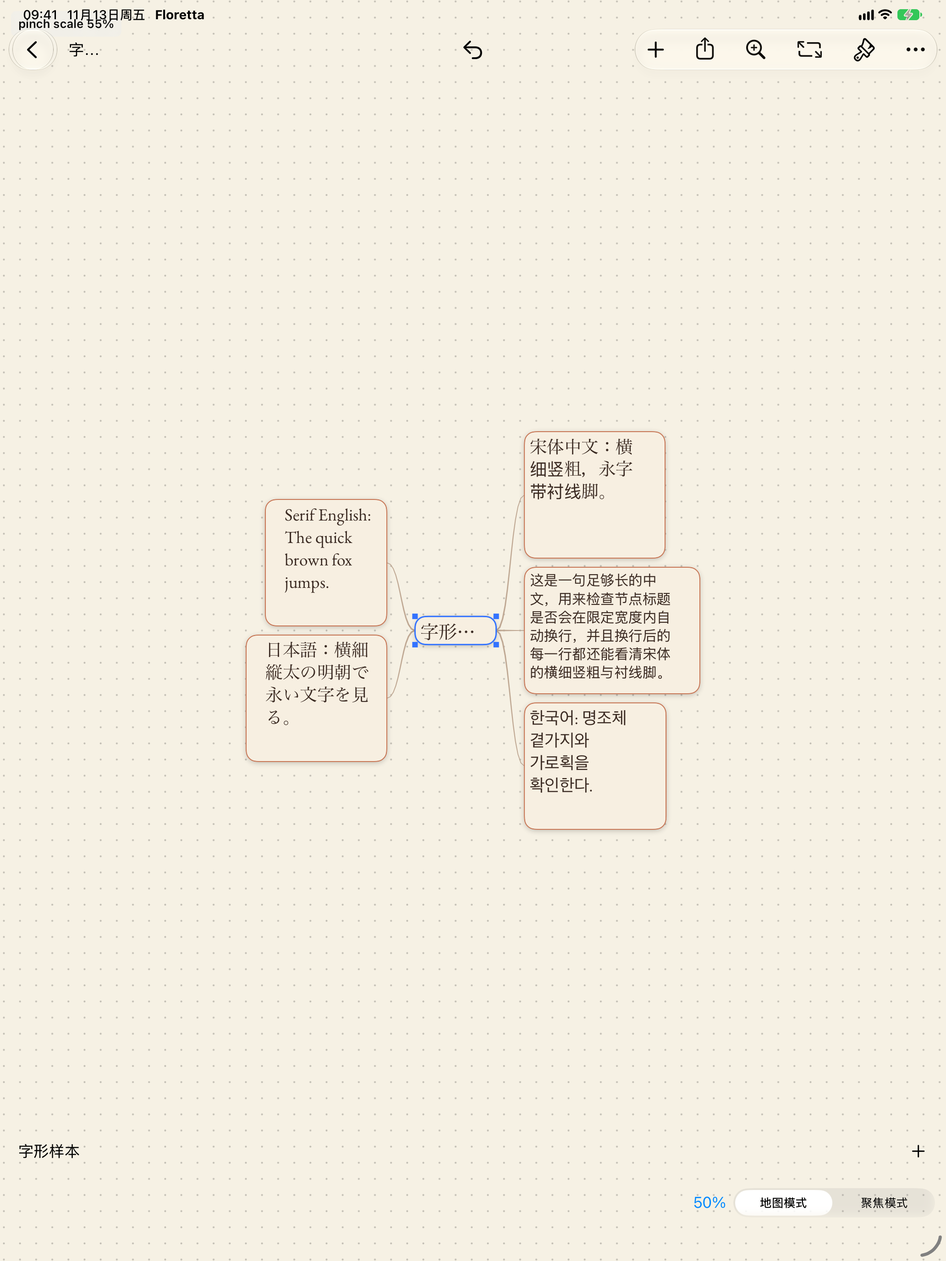
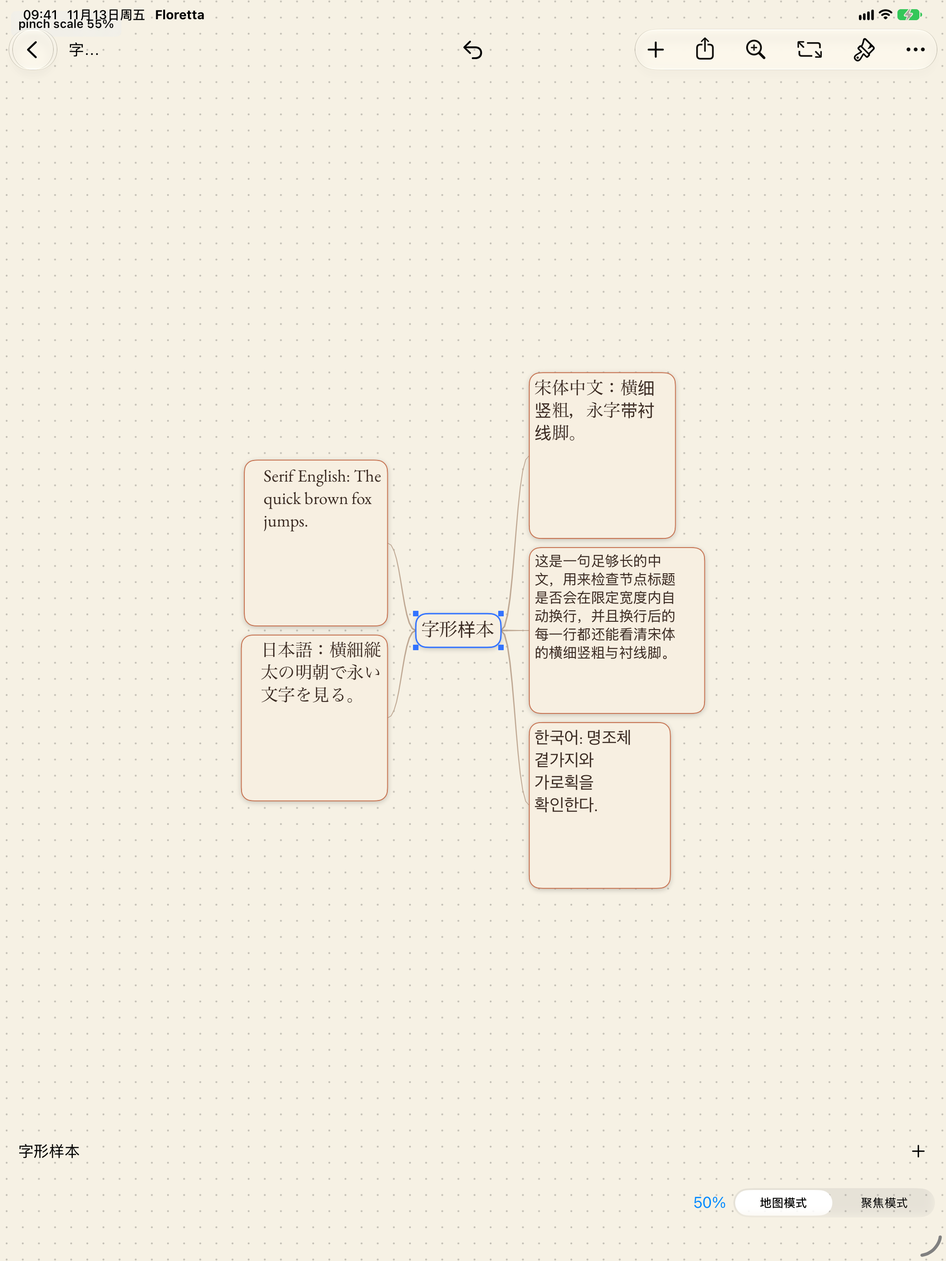
Record typography-fit pinch shots and package sizes
The 70% crop of 「字形样本」 on 9418126 was a measure/paint
font mismatch, fixed in 547e272. Official clean-tree shots at
100/85/70/55% show the four characters complete. Record those
frames, LRU 50-400 and multi-design counts, and 547e272
package sizes. FPS remains the db5ac1e remasure.

Changed region(s): [[0.2791, 0.2812, 0.7132, 0.6875], [0.2791, 0.375, 0.4031, 0.4688]]

diff --git a/docs/THEME-MODES.md b/docs/THEME-MODES.md
@@ -79,9 +79,9 @@ macOS 上 `ThemeFontCascadeTests` 在本轮补了一项 `testSystemSansAndSystem
 
 本 tip 提名数字必须来自已提交、干净树的测量。`/tmp/theme-modes-perf500-cache.log` 那一轮写的是 `HEAD=fe82126 plus uncommitted font cache`，峰值 105.5 MB，平移 59.3 / 56，缩放 53.7 / 40，拖动 59.7 / 58，**不得当作本 tip 的证据**，也不得把缩放写成「57–60」。
 
-| 项 | 对照 `8e50c12`（2026-11-12 23:16） | 对照 `8e50c12` 同参数重测（2026-11-13 00:25） | 上轮产品 `e379209` 干净树（00:21） | 上轮产品 `9a92549` 干净树（00:43） | 本 tip 产品 `ebe0874` 干净树（01:33） |
+| 项 | 对照 `8e50c12`（2026-11-12 23:16） | 对照 `8e50c12` 同参数重测（2026-11-13 00:25） | 上轮产品 `e379209` 干净树（00:21） | 上轮产品 `9a92549` 干净树（00:43） | 产品 `ebe0874` 干净树（01:33）；typography 修复 `44723d0` 未重测帧率，仍沿用这组数 |
 | --- | --- | --- | --- | --- | --- |
-| HEAD | `8e50c1212d9f784ec6b38ba434f8c77cb9206cf6` | 同左，`git archive` 到 `/tmp/theme-modes-8e50c12-remeasure` | `e379209963e8ee5ccfa6314ede7d52c303b3e42c` | `9a92549e0d68f26ab9e8fcca079df64de9b1aa6e` | `ebe08747bab4174f66b305734ee14206f1c1d58a`（本 tip 的产品代码提交；其后若只有文档与入树 JSON，不改产品代码） |
+| HEAD | `8e50c1212d9f784ec6b38ba434f8c77cb9206cf6` | 同左，`git archive` 到 `/tmp/theme-modes-8e50c12-remeasure` | `e379209963e8ee5ccfa6314ede7d52c303b3e42c` | `9a92549e0d68f26ab9e8fcca079df64de9b1aa6e` | `ebe08747bab4174f66b305734ee14206f1c1d58a`（帧率与峰值内存的产品提交。本 tip 产品代码是其后的 typography 修复 `44723d0246b31722acf988adb7ee0b8dfd145372`，未在该 SHA 上重测 FPS，不得把这组数写成 `44723d0` 的新测） |
 | 工作树 | 当时的对照 tip | 隔离归档，未改其它 worktree | 日志打印 `HEAD=e379209…`，`GIT_STATUS_PORCELAIN` 为空 | 日志打印 `HEAD=9a92549…`，`GIT_STATUS_PORCELAIN` 为空（测量前与测量后都干净） | 日志打印 `HEAD=ebe08747bab4174f66b305734ee14206f1c1d58a`，`GIT_STATUS_PORCELAIN` 在测量前与测量后均为空（`GIT_STATUS_PORCELAIN_BEGIN` / `_END` 之间无内容） |
 | 日志 | `/tmp/theme-modes-baseline-perf500.log` START 2026-11-12 23:15:21，END 23:16:58，EXIT 0，`** TEST SUCCEEDED **` | `/tmp/theme-modes-baseline-perf500-remeasure.log` START 2026-11-13 00:23:54，END 00:25:33，EXIT 0，`** TEST SUCCEEDED **`，`FLORETTA_PERF_UITEST_DONE elapsed=25.2` | `/tmp/theme-modes-perf500-e379209.log` START 00:20:11，END 00:21:51，EXIT 0，`** TEST SUCCEEDED **`，elapsed=24.6 | `/tmp/theme-modes-perf500-9a92549.log` START 00:41:52，END 00:43:53，EXIT 0，`** TEST SUCCEEDED **`，`FLORETTA_PERF_UITEST_DONE elapsed=25.5` | `/tmp/theme-modes-perf500-ebe0874.log` START 2026-11-13 01:32:18，END 01:33:53 CST，EXIT 0，`** TEST SUCCEEDED **`，`FLORETTA_PERF_UITEST_DONE elapsed=24.1` |
[1 lines of base64/hex data omitted]
@@ -96,13 +96,14 @@ macOS 上 `ThemeFontCascadeTests` 在本轮补了一项 `testSystemSansAndSystem
 
 固定 0.5 pt 桶在缩小端跳变偏大：20 pt 时 0.5 pt 是 2.5%，4 pt 时是 12.5%。本 tip 产品代码 `ebe0874` 改为按 `log` 等距、比值 1.02 的相对步长量化后再入键：`sizeTicks = round(log(size) / log(1.02))`，返回并用于 `CTFontCreateCopyWithAttributes` 的字号是该桶值 `1.02^ticks`，相邻桶在任意字号下相差至多 2%。256 条 LRU 与每帧快照、命中不加锁、把真实家族写进 attributed string 的路径都保留。
 
-干净树 `ebe0874` 缩放平均 / 最低是 **57.2 / 50**（344 次绘制），不是「57–60」。与 11-12 晚间对照原测 57.3 / 50 差 0.1，与 00:25 重测对照 55.5 / 40 差 1.7，与 `9a92549` 的 55.3 / 44 差 1.9。这几轮对照自身也曾从 57.3 落到 55.5，探针噪声大约 ±2，无跨量级差异。平移和拖动仍是 59.7 / 58。峰值内存测到 65.2 MB。通过与否留给审查者判断，这里不自行宣布通过。
+干净树 `ebe0874` 缩放平均 / 最低是 **57.2 / 50**（344 次绘制），不是「57–60」。与 11-12 晚间对照原测 57.3 / 50 差 0.1，与 00:25 重测对照 55.5 / 40 差 1.7，与 `9a92549` 的 55.3 / 44 差 1.9。这几轮对照自身也曾从 57.3 落到 55.5，探针噪声大约 ±2，无跨量级差异。平移和拖动仍是 59.7 / 58。峰值内存测到 65.2 MB。这里只记录测到的数，不把这次下降写成已证实的缓存收益。本 tip typography 修复 `44723d0` 没有重测 500 节点探针，帧率与 65.2 MB 仍归在 `ebe0874`，不得写成 `44723d0` 的新测。通过与否留给审查者判断，这里不自行宣布通过。
 
 `fae6453` 回归仍以 `/tmp/theme-modes-perf500-tip-confirm.log`（23:18:43–23:19:29 CST，EXIT 0）和 `docs/reviews/theme-modes/canvas-perf-500-ipad-fae6453-before-fix.json`（`finishedAt` 2026-11-12T15:19:27Z）为准：峰值 89.2 MB，平移 1.0 / 0，缩放 0.8 / 0，拖动 0.9 / 0。原因是每一帧为每个可见节点现场构建带级联的 CTFont。macOS 直接启动路径仍然 windows=0，本对照只走 XCUITest，见 `docs/reviews/theme-modes/PERF-ATTEMPT.md`。
 
 - 上轮产品 `e379209963e8ee5ccfa6314ede7d52c303b3e42c` 干净树实测：iOS 12.3 MB（12,935,015 bytes，产物 mtime 2026-11-13 00:26:43 CST）；macOS 18.5 MB（19,404,712 bytes，可执行文件 mtime 00:27:13 CST，`platform=macOS` arm64）。日志 `/tmp/theme-modes-size-e379209.log`，START 00:26:15，END 00:27:13 CST，`SIZE_E379209_SCRIPT_EXIT 0`。
 - 上轮产品 `9a92549e0d68f26ab9e8fcca079df64de9b1aa6e` 干净树实测：iOS 12.4 MB（12,951,415 bytes，产物 mtime 2026-11-13 00:45:20 CST）；macOS 18.5 MB（19,404,744 bytes，可执行文件 mtime 00:45:53 CST，`platform=macOS` arm64）。日志 `/tmp/theme-modes-size-9a92549.log`，START 00:44:47，END 00:45:53 CST，`SIZE_9A92549_SCRIPT_EXIT 0`，HEAD 即 `9a92549`，测量前后 `git status` 干净。
-- 本 tip 产品代码 `ebe08747bab4174f66b305734ee14206f1c1d58a` 干净树实测：iOS 12.4 MB（12,953,439 bytes，产物 mtime 2026-11-13 01:35:11 CST）；macOS 18.5 MB（19,423,352 bytes，可执行文件 mtime 01:36:00 CST，`platform=macOS` arm64）。日志 `/tmp/theme-modes-size-ebe0874.log`，START 01:34:21，END 01:36:00 CST，`SIZE_EBE0874_SCRIPT_EXIT 0`，HEAD 即 `ebe08747bab4174f66b305734ee14206f1c1d58a`，测量前后 `git status` 干净。字节是对这次 `check-size.sh` 已 strip 产物按脚本同一口径 `find … stat -f %z` 求和得到的，不得用对话里的 12,935,015 / 19,404,712，也不得用 `9a92549` 的 12,951,415 / 19,404,744 代替本 SHA。均低于 iOS < 15 / macOS < 25。随后若只有文档入树，包体数字仍以这次产物为准。
+- 上轮产品代码 `ebe08747bab4174f66b305734ee14206f1c1d58a` 干净树实测：iOS 12.4 MB（12,953,439 bytes，产物 mtime 2026-11-13 01:35:11 CST）；macOS 18.5 MB（19,423,352 bytes，可执行文件 mtime 01:36:00 CST，`platform=macOS` arm64）。日志 `/tmp/theme-modes-size-ebe0874.log`，START 01:34:21，END 01:36:00 CST，`SIZE_EBE0874_SCRIPT_EXIT 0`，HEAD 即 `ebe08747bab4174f66b305734ee14206f1c1d58a`，测量前后 `git status` 干净。不得用这组字节代替下面本 SHA 的产物。
+- 本 tip 产品代码 `44723d0246b31722acf988adb7ee0b8dfd145372` 干净树实测：iOS 12.4 MB（12,970,647 bytes，产物 mtime 2026-11-13 02:41:42 CST）；macOS 18.5 MB（19,441,560 bytes，可执行文件 mtime 02:42:32 CST，`platform=macOS` arm64）。日志 `/tmp/theme-modes-size-44723d0.log`，START 02:40:53 CST；脚本打印 `iOS: 12.4 MB (limit < 15 MB)` 与 `macOS: 18.5 MB (limit < 25 MB)`，无 FAIL。包装层随后在只读变量 `status` 赋值处退出，END 行是同一轮已 strip 产物上补记的（02:42:32 CST），不是重编。HEAD 即 `44723d0246b31722acf988adb7ee0b8dfd145372`，测量前与补记时 `git status` 干净。字节是对这次产物按脚本同一口径 `find … stat -f %z` 求和得到的，不得用 `ebe0874` 的 12,953,439 / 19,423,352 代替本 SHA。均低于 iOS < 15 / macOS < 25。随后若只有文档入树，包体数字仍以这次产物为准。
 
 ## 截图
 
@@ -121,12 +122,12 @@ macOS 上 `ThemeFontCascadeTests` 在本轮补了一项 `testSystemSansAndSystem
 | `latin-system-serif.png` | 同一份字形样本、同一句中英文，经典 + 系统衬线。与已通过的 `classic.png` 字节完全相同（472,011），作为本轮「选 EB Garamond 之前」的对照 | 2026-11-12 23:33:08 | 472,011 |
 | `latin-eb-garamond.png` | 同一份文档、同一句中英文，经典模式把字体族改成 EB Garamond。英文 “Serif English: The quick brown fox jumps.” 的拉丁字母明显换成旧式 Garamond（与系统 New York 不同）；中文仍是本模拟器上的 PingFang 回退，没有被拉丁面吃掉。检查器已关掉 | 2026-11-12 23:33:32 | 478,594 |
 
-| `pinch-100.png` | 同一份字形样本，经典 + EB Garamond，把画布连续缩放到 100% 后抓帧。左上角调试标 `pinch scale 100%`，右下角状态条缩放档也是 100% | 2026-11-13 01:31:00 | 496,353 |
-| `pinch-85.png` | 同一进程、同一文档，连续缩放到 85%。调试标 `pinch scale 85%`，状态条缩放档显示 75%（见下方说明） | 2026-11-13 01:31:04 | 494,164 |
-| `pinch-70.png` | 同一进程、同一文档，连续缩放到 70%。调试标 `pinch scale 70%`，状态条缩放档显示 75% | 2026-11-13 01:31:09 | 475,326 |
-| `pinch-55.png` | 同一进程、同一文档，连续缩放到 55%。调试标 `pinch scale 55%`，状态条缩放档显示 50% | 2026-11-13 01:31:14 | 466,811 |
+| `pinch-100.png` | 同一份字形样本，经典 + EB Garamond，把画布连续缩放到 100% 后抓帧。中心节点标题完整显示「字形样本」。左上角调试标 `pinch scale 100%`，右下角状态条缩放档也是 100% | 2026-11-13 02:34:35 | 501,800 |
+| `pinch-85.png` | 同一进程、同一文档，连续缩放到 85%。中心节点标题完整。调试标 `pinch scale 85%`，状态条缩放档显示 75%（见下方说明） | 2026-11-13 02:34:40 | 495,939 |
+| `pinch-70.png` | 同一进程、同一文档，连续缩放到 70%。中心节点标题完整显示「字形样本」（`30e2e91` 同位置曾被裁成「字形…」）。调试标 `pinch scale 70%`，状态条缩放档显示 75% | 2026-11-13 02:34:45 | 475,202 |
+| `pinch-55.png` | 同一进程、同一文档，连续缩放到 55%。中心节点标题完整显示「字形样本」。调试标 `pinch scale 55%`，状态条缩放档显示 50% | 2026-11-13 02:34:50 | 468,492 |
 
-已通过的 classic / modern / classic-sans 三张未重拍。EB Garamond 对照日志：`/tmp/theme-modes-eb-shot-poller.log`、`/tmp/theme-modes-eb-shot.log`（`EB_SHOT_START` 2026-11-12 23:31:29 CST，`EB_SHOT_END` 23:33:34 CST，EXIT 0，`** TEST SUCCEEDED **`）。经典/现代重拍日志仍是 `/tmp/theme-modes-shot-poller.log`、`/tmp/theme-modes-glyph-songti.log`（`SONGTI_SHOT_START` 2026-11-12 22:55:10 CST，`SONGTI_SHOT_END` 22:57:02 CST，EXIT 0）。捏合四张日志：`/tmp/theme-modes-pinch-shot-poller.log`、`/tmp/theme-modes-pinch-shot.log`（约 01:31 CST，四张 mtime 01:31:00–01:31:14 CST）。较早一轮空画布截图（22:13–22:14）已作废，不作为节点正文证据。
+已通过的 classic / modern / classic-sans 三张未重拍。EB Garamond 对照日志：`/tmp/theme-modes-eb-shot-poller.log`、`/tmp/theme-modes-eb-shot.log`（`EB_SHOT_START` 2026-11-12 23:31:29 CST，`EB_SHOT_END` 23:33:34 CST，EXIT 0，`** TEST SUCCEEDED **`）。经典/现代重拍日志仍是 `/tmp/theme-modes-shot-poller.log`、`/tmp/theme-modes-glyph-songti.log`（`SONGTI_SHOT_START` 2026-11-12 22:55:10 CST，`SONGTI_SHOT_END` 22:57:02 CST，EXIT 0）。本 tip 捏合四张是在已提交、干净的 `44723d0` 上重拍的：日志 `/tmp/theme-modes-pinch-shot-44723d0.log`（`PINCH_SHOT_START` 2026-11-13 02:33:07 CST，`PINCH_SHOT_END` 02:34:52 CST，`PINCH_SHOT_EXIT 0`，`** TEST SUCCEEDED **`，`HEAD=44723d0246b31722acf988adb7ee0b8dfd145372`，拍摄前与拍摄后 `GIT_STATUS_PORCELAIN` 均为空）；poller `/tmp/theme-modes-pinch-shot-44723d0-poller.log`，四张先写到 `/tmp/theme-modes-pinch-44723d0/` 再拷入本目录，mtime 02:34:35–02:34:50 CST。01:31 那一轮（`/tmp/theme-modes-pinch-shot.log`，当时入树的是 `30e2e91` 附近的图）里 70% 中心标题被裁成「字形…」，已替换，不得再当本 tip 证据。较早一轮空画布截图（22:13–22:14）已作废，不作为节点正文证据。
 
 ### 捏合图左上角 55% 与右下角 50% 为什么不同
 
@@ -135,10 +136,34 @@ macOS 上 `ThemeFontCascadeTests` 在本轮补了一项 `testSystemSansAndSystem
 - 左上角 `uitest.heldCanvasScale` 只在 `-FlorettaPinchShot` 启动时出现，文案是 `pinch scale \(Int((camera.viewport.scale * 100).rounded()))%`，也就是**当前视口的连续缩放**，四舍五入到整数百分比。测试用 `CanvasScaleHook` 把画布停在 `MagnifyGesture.onChanged` 那种中间值（100 / 85 / 70 / 55），并且在 `pinchGesture.onEnded` 里关掉对合法 `ZoomStop` 的回吸，所以 55% 这一张的视口就是 0.55，标签写 55%。
 - 右下角状态条芯片显示的是 `camera.chrome.zoomPercent`。`CanvasChrome.syncZoomPercent(toScale:)` 的注释写明「chrome percent is always a legal stop, never a raw value such as 137」，实现是 `ZoomStop.displayPercent(forScale:)` → `ZoomStop.nearest(to:)`。合法档只有 50、75、100、125、150、200、300、400。0.55 离 0.50 的距离是 0.05，离 0.75 是 0.20，所以芯片显示 50%。同一组图也符合这条规则：85% 的芯片是 75%（离 75 差 10，离 100 差 15），70% 的芯片是 75%（离 75 差 5，离 50 差 20），100% 的芯片是 100%。
 
-也就是说，55% 那张里画布和字形按连续 55% 来画，芯片只是把这个连续值显示成最近的合法缩放档。Hubert 已看过这四张：100% 与 55% 下中英日韩内容一致、都是衬线、没有字形跳变、长句仍正确换行。
+也就是说，55% 那张里画布和字形按连续 55% 来画，芯片只是把这个连续值显示成最近的合法缩放档。Hubert 此前看过 01:31 那一轮四张，确认 100% 与 55% 下中英日韩内容连续、都是衬线、没有字形跳变、长句仍正确换行；那些图不能当作本 tip 中心标题未裁切的证据。
+
+### 中心节点标题「字形样本」在 70% / 55% 被裁切
+
+对照实验用同一份 `glyph-sample.floretta`、同一块中心节点裁切、同一 70% 视口。基线 `8e50c12`（日志 `/tmp/theme-modes-baseline-pinch-shot.log`，2026-11-13 02:20:59–02:23:05 CST，EXIT 0）中心节点四个字「字形样本」都在；分支 `30e2e91` 同一位置只剩「字形…」。这是本变化引入的回归，不是预先就有的。
+
+最初的混判是：100% / 85% 两侧都完整；70% 基线完整、tip 被裁（新问题）；55% 两侧都被裁，当时当成既有问题。Hubert 后来独立确认 70% 必须修，并把验收收紧为：同一文档在 100% / 85% / 70% / 55% 四个停点，中心节点都必须完整显示「字形样本」，与基线一致；55% 不得再当成既有问题留下。
+
+排查结论：
+
+1. **不是 log 桶字号和测量字号对不上。** 70% 时桶量化只有约 +0.10%，解释不了裁切。真正的错位是：排版仍走 `TextMeasurementCache` 的 Helvetica → 系统 UI（`.AppleSystemUIFont`）测宽，绘制却走 `ThemeFontCascade`（本轮捏合是经典 + EB Garamond，汉字级联宋体 / 本模拟器回退 PingFang）。「字形样本」36 pt 时，系统 UI 画布宽 136.42、加 24 pt 边距后排成 161；宋体/苹方画布宽 144、排成 168。交叉（测量用系统 UI、绘制用宋体）时可用宽度按 `laidOut * scale − 12`（绘制 `textRect = rect.insetBy(dx: 6, dy: 4)`，这 12 px 是视图像素，不随缩放变）：100% 余量 +4.89 能放下；85% +1.85 能放下；70% −0.20 溢出，与 `30e2e91` 截图一致；55% −3.01 溢出。同一张脸（宋体测、宋体画）时 70% +4.70 能放下，55% 只剩 +0.84。
+2. **不是缩放后复用了旧档位缓存的排版宽度。** 节点宽度在画布坐标里计算，不随视口缩放缓存一版旧宽度。
+3. **选中态描边 / 手柄和固定的视图像素内边距会吃掉可用宽度**，缩放越低，那 12 px 内边距占的比例越大。这与测宽/绘制字体不一致叠在一起，才在 70% 裁字。
+
+产品修复在 `44723d0246b31722acf988adb7ee0b8dfd145372`（Measure canvas titles with the painted font cascade）：有 appearance profile 时，用绘制那一套 cascade（`fontFamilyID` + `nodeDesign`）测标题宽。`FontMetricsPort` 不能直接依赖 `ThemeFontCascade`（会编进分享扩展），所以测宽走 `ThemeAwareFontMetrics`。修复后同一份文档、干净树上的官方四张里，100% / 85% / 70% / 55% 的中心节点都完整显示「字形样本」，没有再改视图像素内边距或选中态手柄。注意：70% / 55% 图左上导航栏标题仍可能显示「字…」，那是返回按钮挤掉了导航栏文案，不是中心节点，也不在这项验收里。
+
+对照 typography 的说明：基线 `8e50c12` 捏合图是该提交的默认外观；本 tip 四张是经典 + EB Garamond。比较的是同一文档、同一中心节点、同一 70% 裁切，不是同一默认字体。
+
+### 字体缓存 LRU 未命中 / 淘汰计数
+
+测试可见计数器：`resolvedFontCacheMissCountForTests` / `resolvedFontCacheEvictCountForTests`。新的尺寸化 CTFont 发布时记一次 miss，从键表里去掉时记一次 evict。官方干净树日志 `/tmp/theme-modes-font-mac-44723d0.log`（`FONT_MAC_OFFICIAL_START` 2026-11-13 02:38:31 CST，`FONT_MAC_OFFICIAL_END` 02:39:04 CST，`FONT_MAC_OFFICIAL_EXIT 0`，`** TEST SUCCEEDED **`，`HEAD=44723d0246b31722acf988adb7ee0b8dfd145372`，`GIT_STATUS_PORCELAIN` 为空）打印的实际计数是：
+
+- 50%↔400% 极端往返（先到百分之五十再到百分之四百再回来）：`FLORETTA_FONT_CACHE_50_400 outbound miss=106 evict=0 count=106; round-trip miss=106 evict=0 count=106`
+- 多 design 场景：`FLORETTA_FONT_CACHE_MULTI_DESIGN miss=1053 evict=797 count=256 cap=256`（1053 − 256 = 797）
+
 
 ## 测试（Asia/Shanghai）
 
 - `swift test --package-path FlorettaCore --filter AppearanceModeTests`：4/0，2026-11-12 21:35:54 CST。
-- `xcodebuild test`（Floretta-macOS）：`AppearanceSettingsTests` 4/0（含共享状态与立即同步、三模式切换、经典+非衬线跨重启持久化、标识前缀）。`ThemeFontCascadeTests` 在干净产品 tip `ebe08747bab4174f66b305734ee14206f1c1d58a` 上是 11/0（2026-11-13 01:37:12–01:37:46 CST，日志 `/tmp/theme-modes-font-mac-ebe0874.log`，`FONT_MAC_EXIT 0`，`** TEST SUCCEEDED **`，11 passed / 0 failed，含相对步长量化与 LRU 用例 `testSizeQuantizationUsesRelativeLogBuckets`、`testContinuousZoomSizesShareACachedRelativeBucket`、`testFontCacheEvictsLeastRecentlyUsedWhenOverCapacity`）。其后只加文档和入树 JSON 的树上又跑过一次，同样 11/0（01:46:29–01:47:12 CST，`/tmp/theme-modes-font-mac-25f212c.log`，当时 HEAD `25f212c49a31c61a3969ad12fb65ab1fd0cd3d33`，产品 diff 相对 `ebe0874` 为空）。`eb-garamond` 的 “Hello” 仍是 `EBGaramond-Regular`，汉字仍是 `STSongti-SC-Regular`；`system-serif` 汉字同样仍是宋体。日志里 `FONT_RESOLVE system-serif zh=STSongti-SC-Regular`。
-- iOS `generic/platform=iOS` 跑在干净产品 tip `ebe08747bab4174f66b305734ee14206f1c1d58a`：命令 `xcodebuild -project Floretta.xcodeproj -scheme Floretta-iOS -destination 'generic/platform=iOS' -configuration Debug CODE_SIGNING_ALLOWED=NO -derivedDataPath /tmp/theme-modes-ios-ebe0874-dd build`，日志 `/tmp/theme-modes-ios-ebe0874.log`，START 2026-11-13 01:38:02 CST，END 01:38:27 CST，`IOS_GENERIC_EXIT 0`，`** BUILD SUCCEEDED **`，`git status` 干净。同一命令在只加文档和入树 JSON 的 `25f212c49a31c61a3969ad12fb65ab1fd0cd3d33` 上同样 EXIT 0（01:46:31–01:47:07 CST，`/tmp/theme-modes-ios-25f212c.log`）。不得用 `88e6640`、`fe82126`、`bd1507f`、`9e01ded` 或 `20443e7` 的 EXIT 0 代替。
+- `xcodebuild test`（Floretta-macOS）：`AppearanceSettingsTests` 4/0（含共享状态与立即同步、三模式切换、经典+非衬线跨重启持久化、标识前缀）。`ThemeFontCascadeTests` 在干净产品 tip `44723d0246b31722acf988adb7ee0b8dfd145372` 上是 14/0（2026-11-13 02:38:31–02:39:04 CST，日志 `/tmp/theme-modes-font-mac-44723d0.log`，`FONT_MAC_OFFICIAL_EXIT 0`，`** TEST SUCCEEDED **`，14 passed / 0 failed，`HEAD=44723d0246b31722acf988adb7ee0b8dfd145372`，`GIT_STATUS_PORCELAIN` 为空）。本轮新增 `testFontCacheCountsForFiftyToFourHundredPercentRoundTrip`、`testFontCacheCountsForMultiDesignScenario`、`testGlyphSampleTitleWidthAtSeventyPercentFitsPaintedCascade`，并保留相对步长量化与 LRU 用例。`eb-garamond` 的 “Hello” 仍是 `EBGaramond-Regular`，汉字仍是 `STSongti-SC-Regular`；`system-serif` 汉字同样仍是宋体。不得用 `ebe0874` / `30e2e91` 的 11/0 代替本 SHA 的 14/0。
+- iOS `generic/platform=iOS` 跑在干净产品 tip `44723d0246b31722acf988adb7ee0b8dfd145372`：命令 `xcodebuild -project Floretta.xcodeproj -scheme Floretta-iOS -destination 'generic/platform=iOS' -configuration Debug CODE_SIGNING_ALLOWED=NO -derivedDataPath /tmp/theme-modes-ios-44723d0-dd build`，日志 `/tmp/theme-modes-ios-44723d0.log`，START 2026-11-13 02:39:59 CST，END 02:40:24 CST，`IOS_GENERIC_EXIT 0`，`** BUILD SUCCEEDED **`，HEAD 即 `44723d0…`，`git status` 干净。不得用 `ebe0874`、`30e2e91` 或更早 tip 的 EXIT 0 代替。

diff --git a/docs/ROADMAP.md b/docs/ROADMAP.md
@@ -4,7 +4,7 @@
 
 ## 本轮
 
-- 本轮进度：PR #119 已开、未合并（基线 `8e50c1212d9f784ec6b38ba434f8c77cb9206cf6`）。双入口共用 `AppSettings`、三模式可切、经典改非衬线可持久化，见 `docs/THEME-MODES.md`。包体以对应 SHA 的 `scripts/check-size.sh` 为准，见 `docs/THEME-MODES.md`：`9a92549` 为 iOS 12,951,415 / macOS arm64 19,404,744（2026-11-13 00:45:20 / 00:45:53 CST）；本 tip 产品 `ebe0874` 为 iOS 12,953,439 / macOS arm64 19,423,352（01:35:11 / 01:36:00 CST）。思源宋体子集 4,876,368 bytes 未打包。画布三张（classic / modern / classic-sans）已用同一份中英日韩+换行文档重拍（22:56:04–22:57:01 CST）。iPad 模拟器没有宋体和 AppleMyungjo，经典中文回退 PingFang，韩文回退 SD Gothic，据实写在 `THEME-MODES.md`，不把 PingFang 写成宋体。E2：同一 XCUITest 启动器+PR #117 探针、500 节点。对照 `8e50c12` 原测 59.7 / 57.3 / 59.7（23:16:56 CST），同参数重测 59.3 / 55.5 / 59.7（2026-11-13 00:25:32 CST）。`fae6453` 曾回归到 1.0 / 0.8 / 0.9。已按 (family, design, log 等距约 2% 字号桶) 缓存 CTFont，每帧快照、绘制只读不可变引用，并加 256 条 LRU 上限（不再用 `Font.system(design:)` 当画布路径）。干净树本 tip 产品 `ebe0874` 为 59.7 / 57.2 / 59.7，缩放须写成 57.2 / 50，峰值内存 65.2 MB（2026-11-13 01:33:51 CST，日志 HEAD=`ebe0874…`，`git status` 干净）；上轮 `9a92549` 为 59.7 / 55.3 / 59.7，峰值 92.8 MB。不得写成 57–60，也不得用脏树 53.7 / 105.5 MB（23:34:47 CST）当本 tip 证据。捏合过程四张（100/85/70/55%）见 `docs/reviews/theme-modes/pinch-*.png`。EB Garamond 对照图见 `docs/reviews/theme-modes/latin-eb-garamond.png`（23:33:32 CST）。矩阵里的已知缺口没有抹掉。
+- 本轮进度：PR #119 已开、未合并（基线 `8e50c1212d9f784ec6b38ba434f8c77cb9206cf6`）。双入口共用 `AppSettings`、三模式可切、经典改非衬线可持久化，见 `docs/THEME-MODES.md`。包体以对应 SHA 的 `scripts/check-size.sh` 为准，见 `docs/THEME-MODES.md`：`9a92549` 为 iOS 12,951,415 / macOS arm64 19,404,744（2026-11-13 00:45:20 / 00:45:53 CST）；上轮产品 `ebe0874` 为 iOS 12,953,439 / macOS arm64 19,423,352（01:35:11 / 01:36:00 CST）；本 tip 产品 `44723d0` 为 iOS 12,970,647 / macOS arm64 19,441,560（02:41:42 / 02:42:32 CST），不得用 `ebe0874` 的字节代替。思源宋体子集 4,876,368 bytes 未打包。画布三张（classic / modern / classic-sans）已用同一份中英日韩+换行文档重拍（22:56:04–22:57:01 CST）。iPad 模拟器没有宋体和 AppleMyungjo，经典中文回退 PingFang，韩文回退 SD Gothic，据实写在 `THEME-MODES.md`，不把 PingFang 写成宋体。E2：同一 XCUITest 启动器+PR #117 探针、500 节点。对照 `8e50c12` 原测 59.7 / 57.3 / 59.7（23:16:56 CST），同参数重测 59.3 / 55.5 / 59.7（2026-11-13 00:25:32 CST）。`fae6453` 曾回归到 1.0 / 0.8 / 0.9。已按 (family, design, log 等距约 2% 字号桶) 缓存 CTFont，每帧快照、绘制只读不可变引用，并加 256 条 LRU 上限（不再用 `Font.system(design:)` 当画布路径）。帧率未在 typography 修复 `44723d0` 上重测，仍归在干净树 `ebe0874`：59.7 / 57.2 / 59.7，缩放须写成 57.2 / 50，峰值内存 65.2 MB（2026-11-13 01:33:51 CST，日志 HEAD=`ebe0874…`，`git status` 干净）；不得把 65.2 MB 写成已证实的缓存收益；上轮 `9a92549` 为 59.7 / 55.3 / 59.7，峰值 92.8 MB。不得写成 57–60，也不得用脏树 53.7 / 105.5 MB（23:34:47 CST）当本 tip 证据。`30e2e91` 在 70% 把中心节点「字形样本」裁成「字形…」，是测宽走系统 UI、绘制走 cascade 的回归；`44723d0` 改为按绘制字体测宽。官方干净树捏合四张（100/85/70/55%，02:34:35–02:34:50 CST，日志 HEAD=`44723d0…`，`git status` 为空）中心节点四个字都完整，见 `docs/reviews/theme-modes/pinch-*.png`。EB Garamond 对照图见 `docs/reviews/theme-modes/latin-eb-garamond.png`（23:33:32 CST）。矩阵里的已知缺口没有抹掉。
 - 下一步：等 Censor 审 PR #119，不合并。并行待办仍是 Quick Look 扩展包 ID 发布阻塞、A27 空态与钉住、`-FlorettaEditChrome` 开窗、补 macOS / iPhone 玻璃截图、音视频 / iPad 蓝牙键盘 / 组字保护的真机验收，以及 FlorettaWeb 自 2026-11-11 04:29:43 CST 之后的同步。
 - 阻塞：1.0(9) 上传因 Quick Look 扩展包 ID 两段后缀 `quicklook.preview` / `quicklook.thumbnail` 被拒。当时构建是 `CURRENT_PROJECT_VERSION = 9`（`811b2f5`，2026-11-10 21:33:57 CST），ID 为 `net.timhuang.floretta.quicklook.preview` 与 `net.timhuang.floretta.quicklook.thumbnail`。其后 PR #90 → main `9885b13`（2026-11-11 01:47:58 CST）改为 `net.timhuang.floretta.qlpreview` / `net.timhuang.floretta.qlthumbnail`，本分支 `project.pbxproj` 仍是这一对；没有成功重传 App Store Connect 的证据，故不能算已交付。另：A27 空态仍无法读取；`-FlorettaEditChrome` 启动后 AX 只有菜单栏（2026-11-12 19:32:59 CST 复现）。
 
@@ -38,7 +38,7 @@
 | 画布平移/拖拽性能 | ✅ 已交付 | ✅ 已交付 | ✅ 已交付 | ❌ 缺失 | 原生：PR #117 → `918e43f`；`docs/reviews/CANVAS-PERF-RESULT.md`。网页性能未在该审计中核实 |
 | macOS 辅助功能树 | 🚧 进行中(PR #118 已合入，仍有残留) | ⛔ 不做(#118 修的是 macOS AX 空树) | ⛔ 不做(#118 修的是 macOS AX 空树) | ⛔ 不做(不适用，Apple 辅助功能) | PR #118 → main `8e50c12`（2026-11-12 19:50:18 CST）用延迟打开文档，让首页 WindowGroup 能建窗。残留：`-FlorettaEditChrome` 启动仍不创建窗口，2026-11-12 19:32:59 CST 复现，AX 只有菜单栏。Censor 明确不能算已修好；`8e50c12` 的 deferred-open 不是完全收口。见 `docs/reviews/A27-inspector-pin-mac.md` |
 | A27 检查器钉住 | ❌ 缺失 | ⛔ 不做(A27 是 macOS 验收项) | ⛔ 不做(A27 是 macOS 验收项) | ⛔ 不做(不适用) | `docs/reviews/A27-inspector-pin-mac.md`；PR #118。当前构建仅读到选中态：Style MINY=94.0，FRAME=945.0,94.0,50.0,24.0（2026-11-12 19:32:26–19:32:27 CST）。空态仍「无法读取」：Escape 或点击空白画布会收起 inspector 列，树里没有 `inspector.tabs` /「样式」/ `inspector.empty`。钉住/锁定验收未完成，不得标 ✅ |
-| 外观三模式（经典 / 现代 / 自定义）与开源字体 | 🚧 进行中(PR #119) | 🚧 进行中(PR #119) | 🚧 进行中(PR #119) | ❌ 缺失 | 骨架 `06afca1`；字体 `b4c3ece`；双入口 `ba98953`；见 PR #119 与 `docs/THEME-MODES.md`。共享状态、立即同步、经典+非衬线持久化、标识前缀已在 `AppearanceSettingsTests` 验证（2026-11-12 21:37:44 CST）。画布重拍与 iPad 字体回退见 `docs/THEME-MODES.md`（22:56:04–22:57:01 CST）。E2 对照见 `docs/THEME-MODES.md`：`8e50c12` 原测 59.7 / 57.3 / 59.7，同参数重测 59.3 / 55.5 / 59.7；上轮 `9a92549` 为 59.7 / 55.3 / 59.7，峰值 92.8 MB；本 tip 产品 `ebe0874` 干净树为 59.7 / 57.2 / 59.7，缩放 57.2 / 50，峰值内存 65.2 MB。不得写成 57–60。FlorettaWeb 自 `ecdf695` 后再无提交，未接入三模式 |
+| 外观三模式（经典 / 现代 / 自定义）与开源字体 | 🚧 进行中(PR #119) | 🚧 进行中(PR #119) | 🚧 进行中(PR #119) | ❌ 缺失 | 骨架 `06afca1`；字体 `b4c3ece`；双入口 `ba98953`；见 PR #119 与 `docs/THEME-MODES.md`。共享状态、立即同步、经典+非衬线持久化、标识前缀已在 `AppearanceSettingsTests` 验证（2026-11-12 21:37:44 CST）。画布重拍与 iPad 字体回退见 `docs/THEME-MODES.md`（22:56:04–22:57:01 CST）。E2 对照见 `docs/THEME-MODES.md`：`8e50c12` 原测 59.7 / 57.3 / 59.7，同参数重测 59.3 / 55.5 / 59.7；上轮 `9a92549` 为 59.7 / 55.3 / 59.7，峰值 92.8 MB；帧率未在 typography 修复 `44723d0` 上重测，仍归在 `ebe0874` 干净树 59.7 / 57.2 / 59.7，缩放 57.2 / 50，峰值内存 65.2 MB，不得写成已证实的缓存收益，也不得写成 57–60。`44723d0` 按绘制字体测宽后，干净树捏合 100/85/70/55% 中心节点「字形样本」完整。FlorettaWeb 自 `ecdf695` 后再无提交，未接入三模式 |
 | 网页版应用 | ⛔ 不做(Web 资产，非原生 App) | ⛔ 不做(Web 资产，非原生 App) | ⛔ 不做(Web 资产，非原生 App) | ✅ 已交付 | 官方仓库 Super-Console/FlorettaWeb。origin/main tip `ecdf695`（2026-11-11 04:29:43 CST）合并 PR #11 工程导入导出，此前 PR #10 为主题与图标。线上 `https://apps.timhuang.net/floretta/app/` HTTP 200，`Last-Modified: Tue, 10 Nov 2026 20:29:48 GMT`（2026-11-11 04:29:48 CST），与 tip 时刻一致。此后至本轮记录时未见新提交；未与原生 2026-11-12 的 #113–#118 同步。对照 App 仓 `docs/WEB-PARITY.md`（写明更新日期 2026-11-11） |
 | 官网展示页 | ⛔ 不做(Web 资产，非原生 App) | ⛔ 不做(Web 资产，非原生 App) | ⛔ 不做(Web 资产，非原生 App) | ✅ 已交付 | 同一 FlorettaWeb 仓库的语言网关与介绍页（`/floretta/`、`/zh/`、`/en/`；PR #7–#9，主题对齐随 PR #10）。线上 `https://apps.timhuang.net/floretta/` HTTP 200，`Last-Modified` 同上（2026-11-11 04:29:48 CST）。原「产品网站」行并入本行；App 仓 PR #98 只是文档纪律，不是网页实现 |
 | Windows / Linux 客户端 | ⛔ 不做(F5 结论为 UI 须重写，尚未开工) | ⛔ 不做(非该端) | ⛔ 不做(非该端) | ⛔ 不做(非该端) | `docs/FEATURES-CHECKLIST.md` F5；`docs/HANDOFF-WINDOWS-ANDROID.md` |
